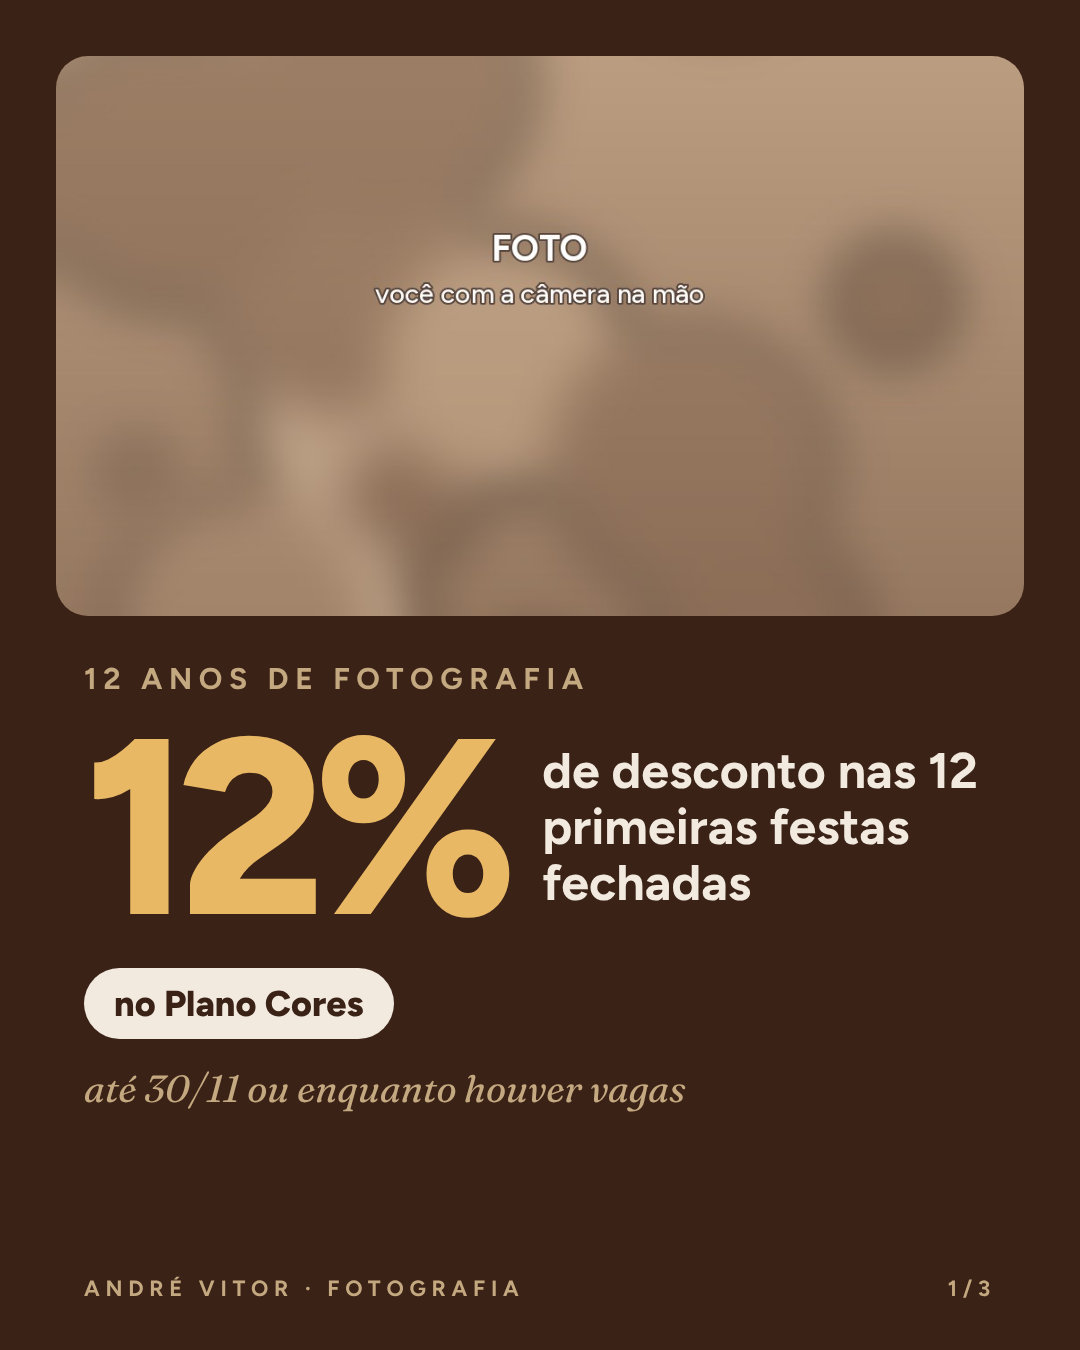
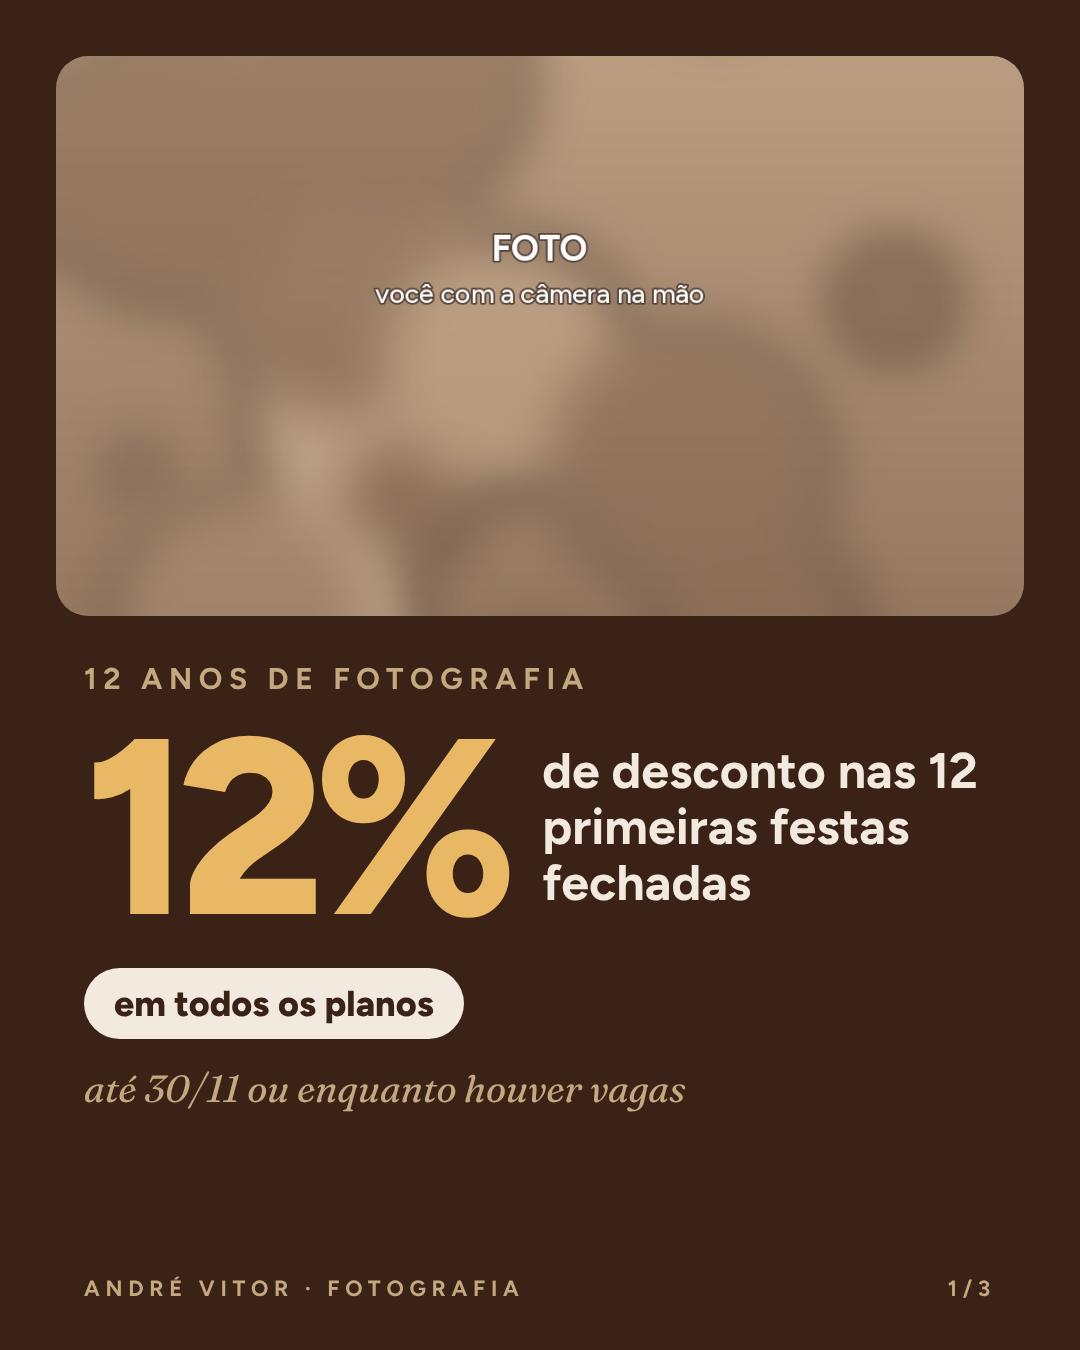
Promoção 12 anos: desconto em todos os planos, com tabela Pix e cartão
Claude-Session: https://claude.ai/code/session_01V8X75n2knntE3NdxPFh2K8

Changed region(s): [[0.1222, 0.7156, 0.4278, 0.7778]]

diff --git a/anuncio-12anos/slides.html b/anuncio-12anos/slides.html
@@ -62,8 +62,19 @@
   .preco .por small{ font-size:40px; font-weight:700; letter-spacing:0; }
   .preco .cartao{ font-weight:500; font-size:32px; color:var(--cacau); margin-top:12px; }
   .preco .inclui{ font-weight:600; font-size:30px; color:var(--marrom); margin-top:26px; padding-top:24px; border-top:2px solid #E5D9C6; }
-  .lista{ list-style:none; margin-top:44px; }
-  .lista li{ position:relative; padding-left:56px; font-weight:500; font-size:36px; line-height:1.3; margin-bottom:24px; }
+  .tabela{ margin-top:34px; background:var(--creme-2); border:2px solid var(--caramelo); border-radius:32px; padding:14px 40px; }
+  .cab, .linha-p{ display:grid; grid-template-columns:1.25fr 1.1fr .9fr; align-items:center; }
+  .cab{ font-weight:700; font-size:22px; letter-spacing:.18em; text-transform:uppercase; color:var(--cacau); padding:16px 0 12px; }
+  .cab span:not(:first-child), .linha-p span:not(:first-child){ text-align:right; }
+  .linha-p{ padding:20px 0; border-top:2px solid #E5D9C6; }
+  .nome{ font-weight:800; font-size:38px; }
+  .nome em{ display:block; font-style:normal; font-weight:700; font-size:20px; letter-spacing:.14em; text-transform:uppercase; color:var(--ambar); margin-top:4px; }
+  .pix{ font-weight:800; font-size:40px; letter-spacing:-.01em; }
+  .pix s{ display:block; font-weight:500; font-size:24px; color:var(--cacau); text-decoration-thickness:2px; }
+  .parc{ font-weight:600; font-size:30px; color:var(--cacau); }
+  .linha-p.top .pix{ color:var(--ambar); }
+  .lista{ list-style:none; margin-top:40px; }
+  .lista li{ position:relative; padding-left:56px; font-weight:500; font-size:32px; line-height:1.3; margin-bottom:16px; }
   .lista li::before{ content:'✓'; position:absolute; left:0; top:0; font-weight:800; color:var(--ambar); }
   .lista li strong{ font-weight:800; }
 
@@ -96,7 +107,7 @@
       <span class="numero">12%</span>
       <p>de desconto nas 12 primeiras festas fechadas</p>
     </div>
-    <span class="selo">no Plano Cores</span>
+    <span class="selo">em todos os planos</span>
     <p class="prazo">até 30/11 ou enquanto houver vagas</p>
   </div>
   <div class="rodape"><span>André Vitor · Fotografia</span><span>1/3</span></div>
@@ -106,12 +117,28 @@
 <section class="slide regras" id="s2">
   <div class="texto">
     <p class="kicker">Como funciona</p>
-    <div class="preco">
-      <p class="plano">Plano Cores</p>
-      <p class="de">de <s>R$ 1.200</s> por</p>
-      <p class="por">R$ 1.056 <small>no Pix</small></p>
-      <p class="cartao">ou 10× de R$ 125 no cartão</p>
-      <p class="inclui">Até 4h de festa · mínimo de 250 fotos</p>
+    <div class="tabela">
+      <div class="cab"><span>Plano</span><span>No Pix</span><span>No cartão</span></div>
+      <div class="linha-p">
+        <span class="nome">Cores</span>
+        <span class="pix"><s>R$ 1.200</s>R$ 1.056</span>
+        <span class="parc">10× R$ 125</span>
+      </div>
+      <div class="linha-p">
+        <span class="nome">Movimento</span>
+        <span class="pix"><s>R$ 2.300</s>R$ 2.024</span>
+        <span class="parc">10× R$ 239</span>
+      </div>
+      <div class="linha-p top">
+        <span class="nome">Memórias<em>mais escolhido</em></span>
+        <span class="pix"><s>R$ 2.480</s>R$ 2.182</span>
+        <span class="parc">10× R$ 257</span>
+      </div>
+      <div class="linha-p">
+        <span class="nome">Completo</span>
+        <span class="pix"><s>R$ 3.580</s>R$ 3.150</span>
+        <span class="parc">10× R$ 371</span>
+      </div>
     </div>
     <ul class="lista">
       <li>Vale para as <strong>12 primeiras festas fechadas</strong> (contrato assinado e sinal pago)</li>
